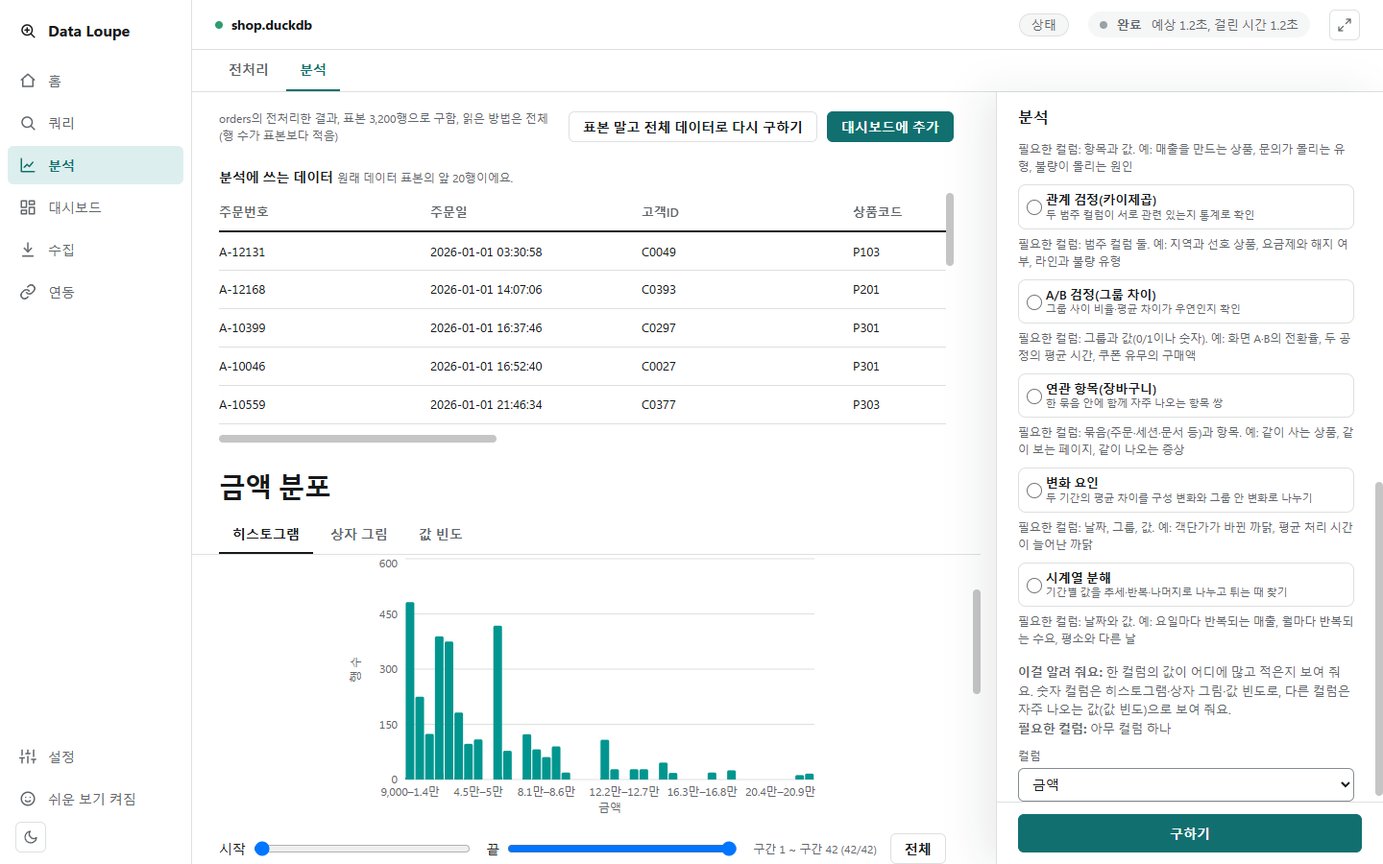
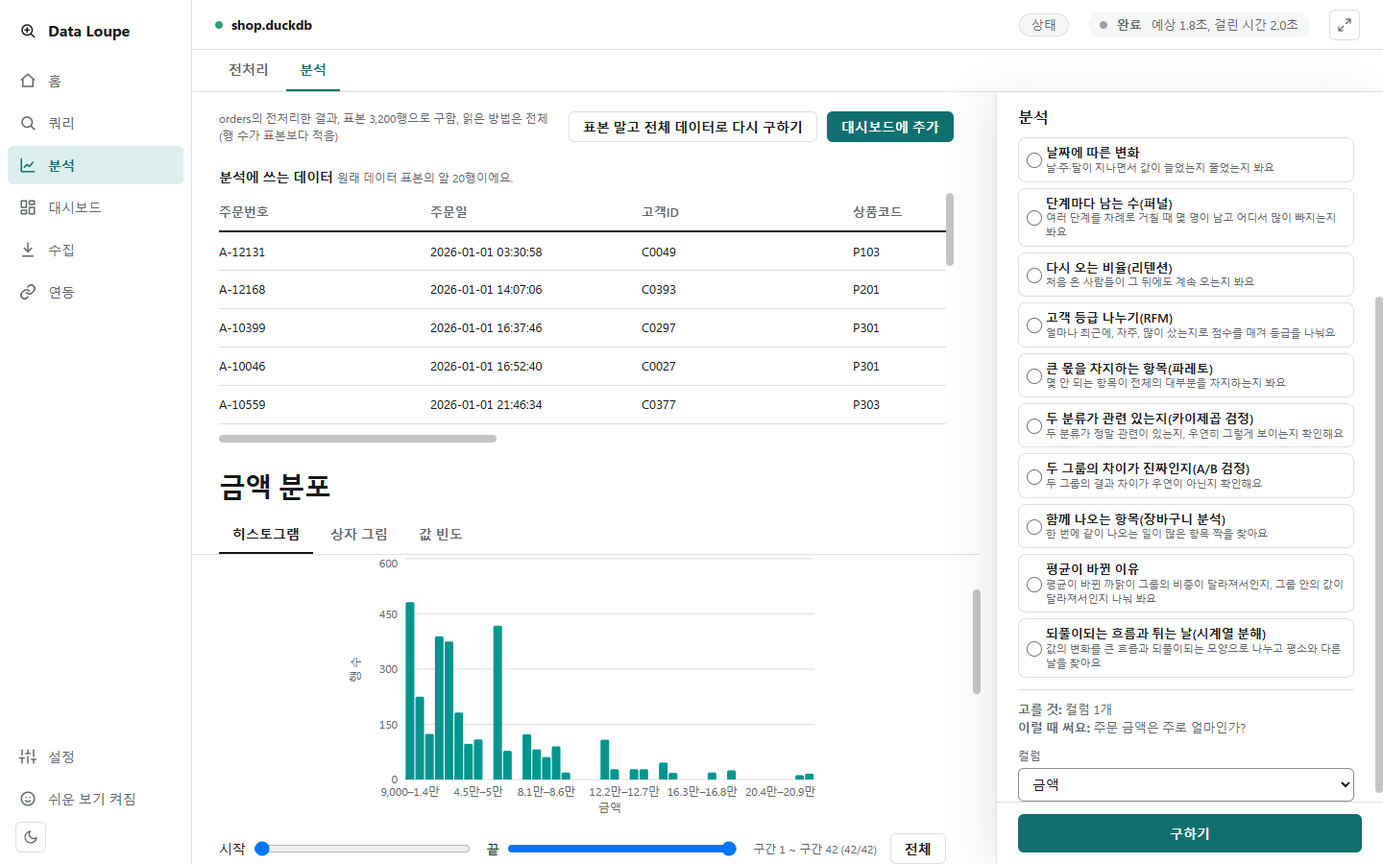
분석 종류 글을 쉬운 말로 다시 쓰고, 카드 추가의 묶음과 종류를 두 구역으로 나눔
- 분석 종류 13개: 쉬운 이름(전문 용어는 괄호), 한 줄 설명만 목록에 두고
  고른 종류의 '고를 것'·'이럴 때 써요'는 아래 구역에 보인다
- 카드 추가: 위는 묶음만, 아래는 고른 묶음의 종류와 설명만
- 설명서·그림·시험을 새 이름에 맞춤

Changed region(s): [[0.7188, 0.1556, 1.0, 0.8711]]

diff --git a/static/prep/prep.html b/static/prep/prep.html
@@ -110,15 +110,15 @@
   .side > footer.has-lead { flex-wrap:wrap; }
   .side > footer.has-lead .lead { flex-basis:100%; margin:0; }
   /* (Phase 19) 분석 종류: 질문형 이름을 2열 목록으로, 원래 이름은 작게 */
-  .akinds { display:grid; grid-template-columns:1fr 1fr; gap:6px; margin-top:10px; }
+  .ahead { margin:12px 0 4px; font-weight:600; }
+  .akinds { display:grid; grid-template-columns:1fr; gap:6px; }  /* 종류만 보이는 구역. 고른 종류의 설명과 칸은 아래 .a-form 구역에 */
   .akinds label { display:flex; gap:6px; align-items:flex-start; border:1px solid var(--line); border-radius:8px; padding:6px 8px; font-size:13px; line-height:1.35; cursor:pointer; }
   .akinds label:has(input:checked) { border-color:var(--accent); background:var(--accent-bg); }
   .akinds input { width:auto; margin:2px 0 0; flex:none; }
   .akinds span { font-weight:600; }
   .akinds small { display:block; color:var(--muted); font-size:11px; font-weight:400; }
-  html.easy .akinds { grid-template-columns:1fr; }  /* (Phase 20) 쉬운 보기: 종류마다 아래에 설명 줄(titleHints)이 붙어 한 줄에 하나씩 */
-  .akinds .easy-only { margin:0 0 4px; }
-  .a-form > .lead { margin-top:4px; }
+  .a-form { border-top:1px solid var(--line); padding-top:10px; }
+  .a-form > .lead { margin-top:0; }
 </style>
 </head>
 <body class="app">
@@ -343,28 +343,29 @@
     <header><h3>분석</h3></header>
     <div class="sc">
       <div class="hint" id="hashed-note-a"></div>
-      <label class="check" title="끄면 전처리 없이 원래 테이블을 분석해요"><input type="checkbox" id="a-prep" checked> 전처리한 결과로 분석</label>
-      <div class="akinds">
-        <label data-hint title="필요한 컬럼: 아무 컬럼 하나. 히스토그램·상자 그림·값 빈도로 봐요. 예: 금액 분포, 응답 시간 분포, 등급별 건수"><input type="radio" name="akind" value="distribution" checked> <span>분포<small>한 컬럼의 값이 어디에 몰려 있고 얼마나 퍼져 있는지</small></span></label>
-        <label data-hint title="필요한 컬럼: 숫자 컬럼 둘 이상. 상관계수 표와 산점도로 봐요. 예: 가격과 판매량, 온도와 불량률"><input type="radio" name="akind" value="correlation"> <span>상관관계<small>두 숫자 컬럼이 함께 오르내리는 정도</small></span></label>
-        <label data-hint title="필요한 컬럼: 묶을 컬럼과 값. 예: 매장별 매출, 팀별 처리 건수, 기기 종류별 평균 온도"><input type="radio" name="akind" value="groups"> <span>그룹 비교<small>묶음마다 합계·평균 같은 값을 나란히 비교</small></span></label>
-        <label data-hint title="필요한 컬럼: 날짜와 값. 예: 주별 매출, 일별 방문 수, 월별 고장 건수"><input type="radio" name="akind" value="trend"> <span>기간별 추이<small>일·주·월마다 값이 어떻게 바뀌는지</small></span></label>
-        <label data-hint title="필요한 컬럼: 대상(사용자·주문·문서 등)과 단계. 예: 방문→결제, 접수→승인→완료, 지원→면접→합격"><input type="radio" name="akind" value="funnel"> <span>퍼널(단계별 통과)<small>순서가 있는 단계를 얼마나 통과하고 어디서 빠지는지</small></span></label>
-        <label data-hint title="필요한 컬럼: 대상과 날짜. 예: 가입 주별 재방문, 첫 구매 월별 재구매, 설치 주별 재사용"><input type="radio" name="akind" value="retention"> <span>리텐션(다시 나타남)<small>처음 나타난 기간별로 묶어 이후에 다시 나타난 비율</small></span></label>
-        <label data-hint title="필요한 컬럼: 대상, 날짜, 크기(금액·횟수 등). 예: 고객 구매 등급, 사용자 활동 등급, 거래처 거래 등급"><input type="radio" name="akind" value="rfm"> <span>RFM(최근·빈도·크기 등급)<small>대상마다 얼마나 최근에·자주·크게 했는지로 등급 나누기</small></span></label>
-        <label data-hint title="필요한 컬럼: 항목과 값. 예: 매출을 만드는 상품, 문의가 몰리는 유형, 불량이 몰리는 원인"><input type="radio" name="akind" value="pareto"> <span>파레토(ABC 등급)<small>값이 큰 항목부터 쌓아 소수 항목이 전체의 몇 %인지</small></span></label>
-        <label data-hint title="필요한 컬럼: 범주 컬럼 둘. 예: 지역과 선호 상품, 요금제와 해지 여부, 라인과 불량 유형"><input type="radio" name="akind" value="chisq"> <span>관계 검정(카이제곱)<small>두 범주 컬럼이 서로 관련 있는지 통계로 확인</small></span></label>
-        <label data-hint title="필요한 컬럼: 그룹과 값(0/1이나 숫자). 예: 화면 A·B의 전환율, 두 공정의 평균 시간, 쿠폰 유무의 구매액"><input type="radio" name="akind" value="abtest"> <span>A/B 검정(그룹 차이)<small>그룹 사이 비율·평균 차이가 우연인지 확인</small></span></label>
-        <label data-hint title="필요한 컬럼: 묶음(주문·세션·문서 등)과 항목. 예: 같이 사는 상품, 같이 보는 페이지, 같이 나오는 증상"><input type="radio" name="akind" value="basket"> <span>연관 항목(장바구니)<small>한 묶음 안에 함께 자주 나오는 항목 쌍</small></span></label>
-        <label data-hint title="필요한 컬럼: 날짜, 그룹, 값. 예: 객단가가 바뀐 까닭, 평균 처리 시간이 늘어난 까닭"><input type="radio" name="akind" value="decompose"> <span>변화 요인<small>두 기간의 평균 차이를 구성 변화와 그룹 안 변화로 나누기</small></span></label>
-        <label data-hint title="필요한 컬럼: 날짜와 값. 예: 요일마다 반복되는 매출, 월마다 반복되는 수요, 평소와 다른 날"><input type="radio" name="akind" value="seasonal"> <span>시계열 분해<small>기간별 값을 추세·반복·나머지로 나누고 튀는 때 찾기</small></span></label>
+      <label class="check" title="끄면 전처리 없이 원래 테이블을 분석해요"><input type="checkbox" id="a-prep" checked> 전처리 탭에서 정리한 데이터로 분석</label>
+      <div class="hint ahead">분석 종류</div>
+      <div class="akinds" role="radiogroup" aria-label="분석 종류">
+        <label><input type="radio" name="akind" value="distribution" checked> <span>값이 퍼진 모양(분포)<small>값이 주로 얼마쯤이고 얼마나 고르게 퍼져 있는지 봐요</small></span></label>
+        <label><input type="radio" name="akind" value="correlation"> <span>같이 움직이는 숫자(상관관계)<small>한 숫자가 커질 때 다른 숫자도 커지는지 봐요</small></span></label>
+        <label><input type="radio" name="akind" value="groups"> <span>묶음끼리 비교<small>매장·팀 같은 묶음마다 합계나 평균을 구해 나란히 봐요</small></span></label>
+        <label><input type="radio" name="akind" value="trend"> <span>날짜에 따른 변화<small>날·주·달이 지나면서 값이 늘었는지 줄었는지 봐요</small></span></label>
+        <label><input type="radio" name="akind" value="funnel"> <span>단계마다 남는 수(퍼널)<small>여러 단계를 차례로 거칠 때 몇 명이 남고 어디서 많이 빠지는지 봐요</small></span></label>
+        <label><input type="radio" name="akind" value="retention"> <span>다시 오는 비율(리텐션)<small>처음 온 사람들이 그 뒤에도 계속 오는지 봐요</small></span></label>
+        <label><input type="radio" name="akind" value="rfm"> <span>고객 등급 나누기(RFM)<small>얼마나 최근에, 자주, 많이 샀는지로 점수를 매겨 등급을 나눠요</small></span></label>
+        <label><input type="radio" name="akind" value="pareto"> <span>큰 몫을 차지하는 항목(파레토)<small>몇 안 되는 항목이 전체의 대부분을 차지하는지 봐요</small></span></label>
+        <label><input type="radio" name="akind" value="chisq"> <span>두 분류가 관련 있는지(카이제곱 검정)<small>두 분류가 정말 관련이 있는지, 우연히 그렇게 보이는지 확인해요</small></span></label>
+        <label><input type="radio" name="akind" value="abtest"> <span>두 그룹의 차이가 진짜인지(A/B 검정)<small>두 그룹의 결과 차이가 우연이 아닌지 확인해요</small></span></label>
+        <label><input type="radio" name="akind" value="basket"> <span>함께 나오는 항목(장바구니 분석)<small>한 번에 같이 나오는 일이 많은 항목 짝을 찾아요</small></span></label>
+        <label><input type="radio" name="akind" value="decompose"> <span>평균이 바뀐 이유<small>평균이 바뀐 까닭이 그룹의 비중이 달라져서인지, 그룹 안의 값이 달라져서인지 나눠 봐요</small></span></label>
+        <label><input type="radio" name="akind" value="seasonal"> <span>되풀이되는 흐름과 튀는 날(시계열 분해)<small>값의 변화를 큰 흐름과 되풀이되는 모양으로 나누고 평소와 다른 날을 찾아요</small></span></label>
       </div>
       <div class="a-form" data-kind="distribution">
-        <p class="lead"><b>이걸 알려 줘요:</b> 한 컬럼의 값이 어디에 많고 적은지 보여 줘요. 숫자 컬럼은 히스토그램·상자 그림·값 빈도로, 다른 컬럼은 자주 나오는 값(값 빈도)으로 보여 줘요.<br><b>필요한 컬럼:</b> 아무 컬럼 하나</p>
+        <p class="lead"><b>고를 것:</b> 컬럼 1개<br><b>이럴 때 써요:</b> 주문 금액은 주로 얼마인가?</p>
         <div class="hint">컬럼</div><select id="a-col"></select>
       </div>
       <div class="a-form hidden" data-kind="correlation">
-        <p class="lead"><b>이걸 알려 줘요:</b> 숫자 컬럼끼리 한쪽이 커질 때 다른 쪽도 커지는지(또는 작아지는지)를 -1~1 사이 숫자(피어슨 상관계수) 표나 점 그림(산점도)으로 보여 줘요.<br><b>필요한 컬럼:</b> 숫자 컬럼 2개 이상</p>
+        <p class="lead"><b>고를 것:</b> 숫자 컬럼 2개 이상<br><b>이럴 때 써요:</b> 가격이 오르면 판매량이 줄어드는가?<br>결과는 -1에서 1 사이 숫자예요. 1에 가까우면 같이 커지고, -1에 가까우면 반대로 움직여요.</p>
         <select id="a-cmode"><option value="heatmap">여러 컬럼 한꺼번에(히트맵)</option><option value="scatter">두 컬럼 자세히(산점도)</option></select>
         <div id="a-heat"><div class="hint">숫자 컬럼(2~<span id="a-max-corr"></span>개)</div><div class="cols" id="a-corr-cols"></div>
           <div class="hint">고른 컬럼이 모두 채워진 행만으로 피어슨 상관계수를 구해요.</div></div>
@@ -372,20 +373,20 @@
           <div class="hint">점이 <span id="a-max-points"></span>개보다 많으면 전체에서 고르게 뽑아 그려요(다시 구해도 같은 점).</div></div>
       </div>
       <div class="a-form hidden" data-kind="groups">
-        <p class="lead"><b>이걸 알려 줘요:</b> 묶음(예: 지역)마다 행 수·합계·평균 같은 값을 구해 나란히 비교해요.<br><b>필요한 컬럼:</b> 묶을 컬럼 하나, 계산할 컬럼 하나</p>
+        <p class="lead"><b>고를 것:</b> 묶을 컬럼 1개, 계산할 컬럼 1개<br><b>이럴 때 써요:</b> 어느 매장의 매출이 가장 큰가?</p>
         <div class="hint">묶을 컬럼</div><select id="a-gby"></select>
         <div class="hint">집계</div><div id="a-gagg"></div>
         <div class="hint">계산할 컬럼</div><select id="a-gval"></select>
       </div>
       <div class="a-form hidden" data-kind="trend">
-        <p class="lead"><b>이걸 알려 줘요:</b> 날짜를 일·주·월로 나눠 기간마다 행 수·합계·평균 같은 값이 어떻게 바뀌었는지 보여 줘요.<br><b>필요한 컬럼:</b> 날짜 컬럼, 계산할 컬럼</p>
+        <p class="lead"><b>고를 것:</b> 날짜 컬럼, 계산할 컬럼<br><b>이럴 때 써요:</b> 매출이 달마다 늘고 있는가?</p>
         <div class="hint">날짜 컬럼</div><select id="a-tcol"></select>
         <div class="hint">기간 단위</div><select id="a-tunit"><option value="day">일</option><option value="week">주(월요일부터)</option><option value="month">월</option></select>
         <div class="hint">집계</div><div id="a-tagg"></div>
         <div class="hint">계산할 컬럼</div><select id="a-tval"></select>
       </div>
       <div class="a-form hidden" id="akind-funnel" data-kind="funnel" data-adv>
-        <p class="lead"><b>이걸 알려 줘요:</b> 사람들이 정한 단계를 순서대로 몇 명이나 거쳤고, 어느 단계에서 빠지는지 보여 줘요.<br><b>필요한 컬럼:</b> 사람을 구분하는 컬럼(예: 회원번호), 행동한 시각 컬럼, 행동 이름 컬럼(또는 단계마다 조건)</p>
+        <p class="lead"><b>고를 것:</b> 사람을 구분하는 컬럼(예: 회원번호), 행동한 시각 컬럼, 행동 이름 컬럼(또는 단계마다 조건)<br><b>이럴 때 써요:</b> 방문한 사람 중 몇 명이 결제까지 가는가?</p>
         <div class="hint">사용자를 구분하는 컬럼</div><select id="a-fuser"></select>
         <div class="hint">행동한 시각 컬럼</div><select id="a-ftime"></select>
         <div class="hint">단계 정의</div><select id="a-fdefine" title="행동 값 목록은 행동 컬럼의 값을 순서대로, 조건 줄은 단계마다 조건을 적어요"><option value="values">행동 값 목록</option><option value="stages">단계마다 조건 줄</option></select>
@@ -408,14 +409,14 @@
         <div class="adv"><div class="hint">걸린 시간 절사평균에서 자를 몫(%)</div><input id="a-ftrim" type="number" min="0" step="any" aria-label="절사평균 자르기 %" title="위아래를 합쳐 자를 몫이에요. 비우면 기본값"></div>
       </div>
       <div class="a-form hidden" id="akind-retention" data-kind="retention" data-adv>
-        <p class="lead"><b>이걸 알려 줘요:</b> 처음 나타난 기간(일·주·월)으로 사람을 묶어, 그 뒤 기간마다 다시 나타난 사람의 비율을 보여 줘요. 테이블 전체로 구해요.<br><b>필요한 컬럼:</b> 사람을 구분하는 컬럼, 날짜 컬럼</p>
+        <p class="lead"><b>고를 것:</b> 사람을 구분하는 컬럼, 날짜 컬럼<br><b>이럴 때 써요:</b> 이번 달에 가입한 사람이 다음 달에도 오는가?<br>표본이 아니라 테이블 전체로 구해요.</p>
         <div class="hint">사용자를 구분하는 컬럼</div><select id="a-rwho"></select>
         <div class="hint">시각 컬럼(날짜)</div><select id="a-rtime"></select>
         <div class="hint">코호트 단위</div><select id="a-runit"><option value="day">일</option><option value="week">주(설정한 주 시작 요일부터)</option><option value="month">월</option></select>
         <div class="adv"><div class="hint">경과 칸 수(비우면 기본값)</div><input id="a-rspan" type="number" step="1"></div>
       </div>
       <div class="a-form hidden" id="akind-rfm" data-kind="rfm" data-adv>
-        <p class="lead"><b>이걸 알려 줘요:</b> 최근에(R)·자주(F)·많이(M) 산 정도를 5단계로 나눠 점수를 매기고, 고객을 등급(세그먼트)으로 묶어요. 테이블 전체로 구해요.<br><b>필요한 컬럼:</b> 고객을 구분하는 컬럼, 날짜 컬럼, 금액 컬럼</p>
+        <p class="lead"><b>고를 것:</b> 고객을 구분하는 컬럼, 날짜 컬럼, 금액 컬럼<br><b>이럴 때 써요:</b> 단골은 누구이고 떠나려는 고객은 누구인가?<br>표본이 아니라 테이블 전체로 구해요.</p>
         <div class="hint">사용자를 구분하는 컬럼</div><select id="a-mwho"></select>
         <div class="hint">시각 컬럼(날짜)</div><select id="a-mtime"></select>
         <div class="hint">금액 컬럼</div><select id="a-mamt"></select>
@@ -423,7 +424,7 @@
         <div class="adv"><div class="hint">거래 키(빈도를 고유 거래 수로 셀 때)</div><select id="a-mtx"></select></div>
       </div>
       <div class="a-form hidden" id="akind-pareto" data-kind="pareto" data-adv>
-        <p class="lead"><b>이걸 알려 줘요:</b> 값이 큰 항목부터 쌓아 적은 수의 항목이 전체의 몇 %를 차지하는지 보여 주고, 누적 비중으로 A·B·C 등급을 나눠요. 테이블 전체로 구해요.<br><b>필요한 컬럼:</b> 항목 컬럼(예: 상품), 값 컬럼(값을 행 수로 고르면 없어도 돼요)</p>
+        <p class="lead"><b>고를 것:</b> 항목 컬럼(예: 상품), 값 컬럼(값을 행 수로 고르면 없어도 돼요)<br><b>이럴 때 써요:</b> 매출의 80%를 만드는 상품은 몇 개인가?<br>표본이 아니라 테이블 전체로 구해요.</p>
         <div class="hint">항목 컬럼</div><select id="a-pitem"></select>
         <div class="hint">값</div><select id="a-pagg"><option value="sum">합계</option><option value="count">행 수</option></select>
         <div id="a-pvalbox"><div class="hint">값 컬럼</div><select id="a-pval"></select></div>
@@ -431,12 +432,12 @@
         <div class="adv"><div class="hint">B 경계(%, 비우면 기본값)</div><input id="a-pb" type="number" step="any"></div>
       </div>
       <div class="a-form hidden" data-kind="chisq">
-        <p class="lead"><b>이걸 알려 줘요:</b> 두 범주 컬럼(예: 지역과 등급)이 서로 관계가 있는지 교차표와 카이제곱 검정으로 확인해요.<br><b>필요한 컬럼:</b> 범주 컬럼 2개</p>
+        <p class="lead"><b>고를 것:</b> 종류로 나뉘는 컬럼 2개(예: 지역과 등급)<br><b>이럴 때 써요:</b> 지역에 따라 잘 팔리는 상품이 다른가?</p>
         <div class="hint">행 컬럼</div><select id="a-xrow"></select>
         <div class="hint">열 컬럼</div><select id="a-xcol"></select>
       </div>
       <div class="a-form hidden" id="akind-abtest" data-kind="abtest" data-adv>
-        <p class="lead"><b>이걸 알려 줘요:</b> 그룹(A·B …)끼리 비율이나 평균의 차이가 우연으로 생길 만한 정도인지 검정하고, 차이의 범위(신뢰구간)를 보여 줘요.<br><b>필요한 컬럼:</b> 그룹 컬럼, 값 컬럼(비율이면 0·1이나 예/아니오 값, 평균이면 숫자)</p>
+        <p class="lead"><b>고를 것:</b> 그룹 컬럼, 값 컬럼(비율이면 0·1이나 예/아니오 값, 평균이면 숫자)<br><b>이럴 때 써요:</b> 새 화면을 본 사람이 더 많이 샀는가?</p>
         <div class="hint">그룹 컬럼</div><select id="a-bgroup"></select>
         <div class="hint">지표</div><select id="a-bmetric"><option value="rate">비율</option><option value="mean">평균</option></select>
         <div class="hint">값 컬럼</div><select id="a-bval"></select>
@@ -446,14 +447,14 @@
         <div class="adv"><div class="hint">신뢰 수준(%, 비우면 설정값)</div><input id="a-bconf" type="number" step="any"></div>
       </div>
       <div class="a-form hidden" id="akind-basket" data-kind="basket" data-adv>
-        <p class="lead"><b>이걸 알려 줘요:</b> 같은 거래에 함께 들어간 항목 쌍을 찾아, 우연보다 얼마나 자주 같이 들어가는지(향상도) 순으로 보여 줘요. 테이블 전체로 구해요.<br><b>필요한 컬럼:</b> 거래 키(예: 주문번호), 항목 컬럼(예: 상품)</p>
+        <p class="lead"><b>고를 것:</b> 묶음을 구분하는 컬럼(예: 주문번호), 항목 컬럼(예: 상품)<br><b>이럴 때 써요:</b> 빵을 산 사람은 우유도 같이 사는가?<br>표본이 아니라 테이블 전체로 구해요.</p>
         <div class="hint">거래 키</div><select id="a-kkey"></select>
         <div class="hint">항목 컬럼</div><select id="a-kitem"></select>
         <div class="adv"><div class="hint">최소 지지도(%, 비우면 기본값)</div><input id="a-ksup" type="number" step="any"></div>
         <div class="adv"><div class="hint">상위 쌍 수(비우면 기본값)</div><input id="a-ktop" type="number" step="1"></div>
       </div>
       <div class="a-form hidden" data-kind="decompose">
-        <p class="lead"><b>이걸 알려 줘요:</b> 두 기간의 평균(0·1 값이면 비율)이 달라진 까닭을 그룹 구성이 바뀐 몫과 그룹 안 값이 바뀐 몫으로 나눠 보여 줘요. 테이블 전체로 구해요.<br><b>필요한 컬럼:</b> 날짜 컬럼, 그룹 컬럼, 숫자 값 컬럼</p>
+        <p class="lead"><b>고를 것:</b> 날짜 컬럼, 그룹 컬럼, 숫자 값 컬럼, 견줄 두 기간<br><b>이럴 때 써요:</b> 객단가가 내린 것은 싼 상품이 많이 팔려서인가?<br>표본이 아니라 테이블 전체로 구해요.</p>
         <div class="hint">날짜 컬럼</div><select id="a-dtime"></select>
         <div class="hint">기준 기간</div><div class="row"><input id="a-db0" type="date"><input id="a-db1" type="date"></div>
         <div class="hint">비교 기간</div><div class="row"><input id="a-dc0" type="date"><input id="a-dc1" type="date"></div>
@@ -461,7 +462,7 @@
         <div class="hint">값 컬럼(0·1 값이면 비율)</div><select id="a-dval"></select>
       </div>
       <div class="a-form hidden" id="akind-seasonal" data-kind="seasonal" data-adv>
-        <p class="lead"><b>이걸 알려 줘요:</b> 기간별 값을 추세·계절 반복·나머지로 나누고, 나머지가 유난히 큰 기간을 표시해요. 테이블 전체로 구해요.<br><b>필요한 컬럼:</b> 날짜 컬럼, 계산할 컬럼</p>
+        <p class="lead"><b>고를 것:</b> 날짜 컬럼, 계산할 컬럼<br><b>이럴 때 써요:</b> 주말마다 매출이 오르는가? 평소와 달랐던 날은 언제인가?<br>표본이 아니라 테이블 전체로 구해요.</p>
         <div class="hint">날짜 컬럼</div><select id="a-stime"></select>
         <div class="hint">기간 단위</div><select id="a-sunit"><option value="day">일</option><option value="week">주(월요일부터)</option><option value="month">월</option></select>
         <div class="hint">집계</div><div id="a-sagg"></div>

diff --git a/web/components/edit/AddCardMenu.tsx b/web/components/edit/AddCardMenu.tsx
@@ -22,6 +22,7 @@ const NUM = ["정수", "실수"], DATE = ["날짜", "날짜시간"];
 const BUCKET_TIMED = "hour", FUNNEL_TIMED = "minute";  // 날짜시간 컬럼일 때 편차 표 시간대 묶음·퍼널/생키 기간 제한의 기본 단위(날짜만 있는 컬럼은 일)
 const REVISIT_CUSTOM = "custom", REVISIT_CUSTOM_START = "0";  // 재방문 목록의 "직접 입력" 값과, 고르면 입력 칸에 먼저 들어가는 값(0은 stagesOf가 거부해 직접 적게 한다)
 /** P14 새 종류의 body.x 칸 이름(boxplot은 비우면 전체 한 상자) */
+const KIND_GROUPS = kindGroups();  // 위 구역은 묶음만, 아래 구역은 고른 묶음의 종류만 보인다
 const X_LABEL: Partial<Record<CardKind, string>> = { boxplot: "그룹 컬럼", heatmap: "행 컬럼", treemap: "윗단계 컬럼", sunburst: "윗단계 컬럼", wordcloud: "글자 컬럼", bump: "대상 컬럼" };
 
 /** 닫혀 있으면 아무것도 그리지 않는다. 열 때마다 새로 마운트되어 처음 모양으로 시작한다 */
@@ -43,6 +44,7 @@ function Menu({ onClose, onAdd, fill, consts }: AddCardMenuProps & { consts: Con
     const kind: CardKind = fill ? (fill.kind === "analysis" || fill.kind === "metric" ? "kpi" : fill.kind) : "kpi";
     return { ...emptyForm(kind, fill?.view?.type ?? ""), ...(fill ? formFromCard(fill) : {}), table: fill?.source?.table ?? "", rows: fit([], kind) };  // 다시 정할 때는 카드의 모양 설정을 지킨다
   });
+  const [group, setGroup] = useState(() => KIND_GROUPS.find(g => g[1].includes(f.kind))![0]);  // 펼쳐 볼 묶음(처음에는 고른 종류가 든 묶음)
   const [names, setNames] = useState<string[]>([]);       // 연결의 테이블 목록
   const [colsFor, setColsFor] = useState<{ table: string; cols: [string, string][] }>({ table: "", cols: [] });  // 고른 테이블의 [컬럼, 한글 타입]
   const [gColsFor, setGColsFor] = useState<{ table: string; cols: [string, string][] }>({ table: "", cols: [] });  // 영역 테이블의 컬럼(이름·도형 후보)
@@ -157,15 +159,18 @@ function Menu({ onClose, onAdd, fill, consts }: AddCardMenuProps & { consts: Con
       <div className="d-add-body">
       <Sel label="테이블" title="카드가 읽을 테이블. 먼저 데이터에 연결해야 해요" value={f.table} onChange={v => set("table", v)} options={names} blank="(테이블을 고르세요)" need />
       {hidden.length > 0 && <div className="hint">ID·해시로 보이는 컬럼 {hidden.join(", ")}을(를) 목록에서 뺐어요 <button type="button" className="linkish" onClick={() => setRs(p => ({ table: f.table, list: [...(p.table === f.table ? p.list : []), ...hidden] }))}>다시 넣기</button></div>}
-      <div className="hint cm-kinds" role="group" aria-label="카드 종류">카드 종류
-        {kindGroups().map(([group, kinds]) => (
-          <div key={group} className="cm-kind-group"><span className="cm-kind-name">{group}</span>
-            {kinds.map(k => (
-              <button key={k} type="button" className={"btype" + (f.kind === k ? " on" : "")} aria-pressed={f.kind === k} title={CARD_KINDS[k]![3]}
-                onClick={() => { setErr(""); setF(p => ({ ...p, kind: k, rows: fit(p.rows, k) })); }}>{CARD_KINDS[k]![0]}</button>
-            ))}
-          </div>
-        ))}
+      <div className="hint cm-kinds">카드 종류
+        <div className="cm-groups" role="group" aria-label="카드 종류 묶음">
+          {KIND_GROUPS.map(([g, kinds]) => (
+            <button key={g} type="button" className={"btype" + (g === group ? " on" : "") + (kinds.includes(f.kind) ? " cur" : "")} aria-pressed={g === group} onClick={() => setGroup(g)}>{g}</button>
+          ))}
+        </div>
+        <div className="cm-kind-list" role="group" aria-label={`${group} 묶음의 카드 종류`}>
+          {KIND_GROUPS.find(([g]) => g === group)![1].map(k => (
+            <button key={k} type="button" className={"cm-kind" + (f.kind === k ? " on" : "")} aria-pressed={f.kind === k}
+              onClick={() => { setErr(""); setF(p => ({ ...p, kind: k, rows: fit(p.rows, k) })); }}><b>{CARD_KINDS[k]![0]}</b><span>{CARD_KINDS[k]![3]}</span></button>
+          ))}
+        </div>
       </div>
       {high > 0 && (
         <div className="cm-rows" role="group" aria-label="값">

diff --git a/static/prep/analysis.js b/static/prep/analysis.js
@@ -1,8 +1,8 @@
 // ---------- 분석 ----------
 // A.cols: 분석할 표의 [컬럼, 종류(num·date·text)]. A.result: 마지막 /api/analyze 결과(how·조건 글 포함). A.view: 보고 있는 그래프.
 const A = { cols: [], hashed: null, result: null, view: null, lo: 0, hi: 0 };
-const VIEW_NAMES = { hist: "히스토그램", box: "상자 그림", values: "값 빈도", heat: "히트맵", scatter: "산점도", groups: "그룹 비교", trend: "추이", funnel: "퍼널",
-  cohort: "코호트 표", curve: "평균 유지율", rfm: "RFM 세그먼트", pareto: "파레토", chi: "관계 검정", ab: "A/B 검정", basket: "연관 쌍", waterfall: "변화 요인", season: "시계열 분해" };
+const VIEW_NAMES = { hist: "히스토그램", box: "상자 그림", values: "값 빈도", heat: "히트맵", scatter: "산점도", groups: "묶음끼리 비교", trend: "날짜에 따른 변화", funnel: "퍼널",
+  cohort: "코호트 표", curve: "평균 유지율", rfm: "RFM 세그먼트", pareto: "파레토", chi: "카이제곱 검정", ab: "A/B 검정", basket: "함께 나오는 짝", waterfall: "평균이 바뀐 이유", season: "시계열 분해" };
 const VIEW_RATIOS = { box: 2.4, heat: 1, scatter: 4 / 3, cohort: 1, chi: 1 };  // 나머지는 16:9
 const ADD_TITLE = $("a-add").title;
 const anaDraw = island($("a-chart"), m => say("err-ana", m));
@@ -222,8 +222,8 @@ const pText = p => p == null ? "-" : Number(p).toPrecision(SIG);
 const AB_TESTS = { z: "두 비율 z 검정", welch: "Welch t 검정", anova: "분산분석(ANOVA)", chi2: "카이제곱 동질성 검정" };
 const NEW_TITLES = {
   cohort: d => `${d.who} ${UNIT_NAMES[d.unit]}별 코호트 리텐션`, curve: d => `${d.who} 평균 유지율`, rfm: d => `${d.who} RFM 세그먼트`,
-  pareto: d => `${d.item} 파레토(${d.agg === "count" ? "행 수" : `합계 ${d.value}`})`, chi: d => `${d.row} × ${d.col} 관계 검정`,
-  ab: d => `${d.group}별 ${d.value} A/B 검정`, basket: d => `${d.item} 연관 쌍`, waterfall: d => `${d.group}별 ${d.value} 변화 요인`, season: d => `${d.time} ${UNIT_NAMES[d.unit]}별 시계열 분해` };
+  pareto: d => `${d.item} 파레토(${d.agg === "count" ? "행 수" : `합계 ${d.value}`})`, chi: d => `${d.row} × ${d.col} 카이제곱 검정`,
+  ab: d => `${d.group}별 ${d.value} A/B 검정`, basket: d => `${d.item} 함께 나오는 짝`, waterfall: d => `${d.group}별 ${d.value} 평균이 바뀐 이유`, season: d => `${d.time} ${UNIT_NAMES[d.unit]}별 시계열 분해` };
 const NEW_NOTES = {
   rfm: d => [`기준일 ${d.asof}`, `사용자 ${d.users.toLocaleString()}명`],
   pareto: d => [d.dropped ? `0 이하·빈 값 항목 ${d.dropped.toLocaleString()}개 뺌` : "", d.more ? `표와 그림에는 앞 ${SERVER.analysis.pareto_show}개만 보임` : ""],

diff --git a/static/core/dash_edit.css b/static/core/dash_edit.css
@@ -10,8 +10,13 @@
 #d-add .d-add-body { flex:1; min-height:0; overflow:auto; display:flex; flex-direction:column; gap:var(--sp-2); }
 #d-add .d-add-foot { flex:none; margin:0; padding-top:var(--sp-2); border-top:1px solid var(--line); }
 .cardmenu .cm-kinds { display:flex; flex-direction:column; gap:var(--sp-1); margin:0; }
-.cardmenu .cm-kind-group { display:flex; flex-wrap:wrap; gap:var(--sp-1); align-items:center; }
-.cardmenu .cm-kind-name { flex:0 0 72px; color:var(--muted); }
+.cardmenu .cm-groups { display:flex; flex-wrap:wrap; gap:var(--sp-1); padding-bottom:6px; border-bottom:1px solid var(--line); }
+.cardmenu .cm-groups .cur { color:var(--text); font-weight:600; }  /* 지금 고른 종류가 든 묶음 */
+.cardmenu .cm-kind-list { display:flex; flex-direction:column; gap:var(--sp-1); }
+.cardmenu .cm-kind { display:flex; gap:8px; align-items:baseline; text-align:left; background:none; border:1px solid var(--line); border-radius:var(--r-ctl); padding:5px 9px; min-height:24px; color:var(--text); transition:border-color .15s, background-color .15s; }
+.cardmenu .cm-kind b { flex:none; font-size:var(--fs-sm); }
+.cardmenu .cm-kind span { color:var(--muted); font-size:var(--fs-xs); }
+.cardmenu .cm-kind.on { border-color:var(--accent); background:var(--accent-bg); }
 .cardmenu .cm-more > summary { cursor:pointer; color:var(--muted); font-weight:600; min-height:24px; }
 .cardmenu .cm-more[open] { display:flex; flex-direction:column; gap:var(--sp-2); }
 .d-main > aside h5 { margin:12px 0 6px; font-size:var(--fs-sm); }

diff --git a/web/components/cards/chart/series.ts b/web/components/cards/chart/series.ts
@@ -55,7 +55,7 @@ export function seriesKit(server: Server) {
   function typeReason(card: SCard, type: Exclude<ChartType, "">) {
     const s = cardSeries(card), names = server.dash.types;
     if (!s) return "아직 값이 없어서 종류를 바꿀 수 없어요. 연결한 뒤 [다시 구하기]를 누르세요.";
-    if (!s.chartable) return "이 분석 그림은 종류를 바꿀 수 없어요. 그룹 비교와 시계열 추이만 바꿀 수 있어요.";
+    if (!s.chartable) return "이 분석 그림은 종류를 바꿀 수 없어요. 묶음끼리 비교와 날짜에 따른 변화만 바꿀 수 있어요.";
     if (type === "scatter" || type === "bubble") {  // X와 값이 숫자 컬럼일 때만(버블은 [크기]도)
       const d = card.data ?? {}, body = card.source?.body ?? {}, y = body.series?.[0]?.y ?? body.y;
       if (d.x_kind !== "num" || !(d.num_cols ?? []).includes(y as string)) return "산점도·버블은 X가 숫자 컬럼이고 값이 숫자 컬럼일 때만 쓸 수 있어요.";

diff --git a/tests_pytest/test_phase20_formula_ui.py b/tests_pytest/test_phase20_formula_ui.py
@@ -17,10 +17,9 @@ FEATURES = ("pca", "kmeans", "geo")
 OLD_QUESTIONS = ("값이 어떻게 퍼져 있나요?", "두 숫자가 같이 움직이나요?", "묶음마다 값이 얼마나 다른가요?", "기간마다 어떻게 바뀌었나요?", "단계마다 얼마나 남나요?",
                  "다시 오는 고객은 얼마나?", "좋은 고객은 누구?", "적은 항목이 대부분을 차지하나요?", "두 항목이 서로 관련 있나요?", "A와 B의 차이가 우연인가요?",
                  "같이 사는 상품은?", "평균이 왜 바뀌었나요?", "반복되는 흐름과 튀는 때는?")
-KIND_NAMES = {"distribution": "분포", "correlation": "상관관계", "groups": "그룹 비교", "trend": "기간별 추이", "funnel": "퍼널(단계별 통과)",
-              "retention": "리텐션(다시 나타남)", "rfm": "RFM(최근·빈도·크기 등급)", "pareto": "파레토(ABC 등급)", "chisq": "관계 검정(카이제곱)",
-              "abtest": "A/B 검정(그룹 차이)", "basket": "연관 항목(장바구니)", "decompose": "변화 요인", "seasonal": "시계열 분해"}
-KIND_NEED = "필요한 컬럼: "
+KIND_NAMES = {"distribution": "값이 퍼진 모양(분포)", "correlation": "같이 움직이는 숫자(상관관계)", "groups": "묶음끼리 비교", "trend": "날짜에 따른 변화", "funnel": "단계마다 남는 수(퍼널)",
+              "retention": "다시 오는 비율(리텐션)", "rfm": "고객 등급 나누기(RFM)", "pareto": "큰 몫을 차지하는 항목(파레토)", "chisq": "두 분류가 관련 있는지(카이제곱 검정)",
+              "abtest": "두 그룹의 차이가 진짜인지(A/B 검정)", "basket": "함께 나오는 항목(장바구니 분석)", "decompose": "평균이 바뀐 이유", "seasonal": "되풀이되는 흐름과 튀는 날(시계열 분해)"}
 FAKE_SERVER = {"pca_max": 7, "kmeans": {"max_cols": 8, "max_k": 9, "k": 4, "iters": 13, "tol": 0.5, "init_rows": 1234}}  # 서버 기본값과 다른 숫자: 화면이 숫자를 따로 적지 않았는지 본다
 
 # 계산 컬럼 칸의 대역: id마다 가짜 요소 하나, 컬럼 다섯 개(대소문자·한글), [추가]가 부르는 것들
@@ -192,10 +191,9 @@ def test_unnest_is_the_last_screen_op() -> None:
 
 def test_analysis_cards_have_name_line_and_needed_columns() -> None:
     page = read(PAGE)
-    cards = re.findall(r'<label data-hint title="([^"]+)"><input type="radio" name="akind" value="(\w+)"(?: checked)?> <span>([^<]+)<small>([^<]+)</small></span></label>', page)
-    assert {value: name for _, value, name, _ in cards} == KIND_NAMES and [value for _, value, _, _ in cards] == list(KIND_NAMES)
-    for title, value, _, line in cards:
-        assert title.startswith(KIND_NEED) and "예: " in title, value
+    cards = re.findall(r'<label><input type="radio" name="akind" value="(\w+)"(?: checked)?> <span>([^<]+)<small>([^<]+)</small></span></label>', page)
+    assert {value: name for value, name, _ in cards} == KIND_NAMES and [value for value, _, _ in cards] == list(KIND_NAMES)
+    for value, _, line in cards:
         assert line.strip() and "?" not in line, value
     for text in (page, read(ANALYSIS)):
         assert not [q for q in OLD_QUESTIONS if q in text]

diff --git a/tests_pytest/test_ux16.py b/tests_pytest/test_ux16.py
@@ -372,8 +372,10 @@ def test_changed_files_have_no_control_chars():
 
 def test_add_card_drawer_markup():
     src = web("components/edit/AddCardMenu.tsx")
-    assert '<Sel label="카드 종류"' not in src and "kindGroups().map(([group, kinds]) =>" in src
-    assert 'className={"btype" + (f.kind === k ? " on" : "")}' in src and "aria-pressed={f.kind === k}" in src
+    assert '<Sel label="카드 종류"' not in src and "KIND_GROUPS.map(([g, kinds]) =>" in src
+    assert 'className="cm-groups"' in src and 'className="cm-kind-list"' in src and "cm-kind-name" not in src  # 묶음 구역과 종류 구역이 따로
+    assert "KIND_GROUPS.find(([g]) => g === group)![1].map(k =>" in src  # 종류 구역에는 고른 묶음의 종류만
+    assert 'className={"cm-kind" + (f.kind === k ? " on" : "")}' in src and "aria-pressed={f.kind === k}" in src
     assert 'onClick={() => { setErr(""); setF(p => ({ ...p, kind: k, rows: fit(p.rows, k) })); }}' in src
     assert 'id={fill ? undefined : "d-add"}' in src and 'className={fill ? "pop cardmenu" : "d-add cardmenu"}' in src
     assert '{!fill && <div className="phead"><b>카드 추가</b>' in src
@@ -418,4 +420,4 @@ def test_drawer_css():
         assert part in d, part
     assert "flex:1; min-height:0; overflow:auto;" in rule(css, "#d-add .d-add-body")
     assert "flex:none;" in rule(css, "#d-add .d-add-foot")
-    assert ".cardmenu .cm-kind-group" in css and ".cardmenu .cm-more" in css
+    assert ".cardmenu .cm-groups" in css and ".cardmenu .cm-kind-list" in css and ".cardmenu .cm-more" in css

diff --git a/tests_pytest/test_ux19_prep.py b/tests_pytest/test_ux19_prep.py
@@ -68,12 +68,12 @@ def test_19e_peak_finder_folded():
 
 def test_19f1_question_names_and_two_lines():
     page = html()
-    labels = re.findall(r'<label data-hint title="[^"]+"><input type="radio" name="akind" value="(\w+)"(?: checked)?> <span>([^<]+)<small>([^<]+)</small></span></label>', page)
+    labels = re.findall(r'<label><input type="radio" name="akind" value="(\w+)"(?: checked)?> <span>([^<]+)<small>([^<]+)</small></span></label>', page)
     assert [k for k, _, _ in labels] == KINDS
-    assert dict((k, n) for k, n, _ in labels)["pareto"] == "파레토(ABC 등급)" and dict((k, d) for k, _, d in labels)["basket"] == "한 묶음 안에 함께 자주 나오는 항목 쌍"
+    assert dict((k, n) for k, n, _ in labels)["pareto"] == "큰 몫을 차지하는 항목(파레토)" and dict((k, d) for k, _, d in labels)["basket"] == "한 번에 같이 나오는 일이 많은 항목 짝을 찾아요"
     assert 'class="akinds"' in page and "seg4" not in page
     for k in KINDS:
-        assert re.search(r'<p class="lead"><b>이걸 알려 줘요:</b> [^<]+<br><b>필요한 컬럼:</b> [^<]+</p>', form(k)), k
+        assert re.search(r'<p class="lead"><b>고를 것:</b> [^<]+<br><b>이럴 때 써요:</b> [^<]+\?(<br>[^<]+)?</p>', form(k)), k
 
 
 def test_19f_optional_fields_folded():

diff --git a/tests_pytest/test_phase20_screens.py b/tests_pytest/test_phase20_screens.py
@@ -72,12 +72,12 @@ def test_title_hints_marked_on_steps_and_kinds():
     assert "html:not(.easy) .easy-only { display:none; }" in read("common.css")
     assert re.search(r"^advMore\(\);\ntitleHints\(\);$", read("common.js"), re.M)  # 화면이 뜰 때 한 번
     prep = read("prep.html")
-    assert len(re.findall(r'<label data-hint title="[^"]+"><input type="radio" name="akind"', prep)) == ANA_KINDS == prep.count('name="akind"')
-    for page in STEP_PAGES:  # 단계 머리마다. 분석 종류와 단계 머리 말고는 붙이지 않는다
+    assert len(re.findall(r'<label><input type="radio" name="akind"', prep)) == ANA_KINDS == prep.count('name="akind"')  # 분석 종류 사이에는 설명 줄을 끼우지 않는다(고른 종류의 설명은 아래 구역에)
+    for page in STEP_PAGES:  # 단계 머리마다. 단계 머리 말고는 붙이지 않는다
         html = read(page)
         steps = len(re.findall(r'<div class="step[ "]', html))
         assert steps and len(re.findall(r'<div class="sp" data-hint[ >]', html)) == steps, page
-        assert html.count(" data-hint") == steps + (ANA_KINDS if page == "prep.html" else 0), page
+        assert html.count(" data-hint") == steps, page
 
 
 # ---------- 20D bcheck ----------

diff --git a/tests_pytest/test_ux14.py b/tests_pytest/test_ux14.py
@@ -51,6 +51,6 @@ def test_export_buttons_in_one_menu():
 
 def test_small_touches():
     assert all(f'value="{k}"' in read("prep.html") for k in ("distribution", "seasonal"))
-    assert len(re.findall(r'<label data-hint title="[^"]+"><input type="radio" name="akind"', read("prep.html"))) == len(re.findall(r'name="akind"', read("prep.html")))
+    assert len(re.findall(r'<label><input type="radio" name="akind"', read("prep.html"))) == len(re.findall(r'name="akind"', read("prep.html")))
     assert 'value="."' not in read("connect.html")
     assert "데이터 연결 필요" not in read("home.html")  # Phase 16: 기능 카드("데이터 연결부터")는 없어지고 연결 칸이 펼쳐져 있다

diff --git a/docs/analysis.md b/docs/analysis.md
@@ -20,7 +20,7 @@
 | 기능 | 한 줄 설명 | 자세히 |
 |---|---|---|
 | 전처리 | 행 거르기·컬럼 정리(목록을 행으로 펼치기 포함)·새 컬럼(계산 컬럼, PCA·K-Means·좌표)·중복 제거·정렬을 고르고, 컬럼 요약에서 품질 진단도 보고, 미리 본 뒤 파일이나 새 테이블로 저장 | [functions/prep.md](functions/prep.md) |
-| 분석 탭 | 분석 종류 카드 13개(분포·상관관계·그룹 비교·기간별 추이·퍼널·리텐션·RFM·파레토·관계 검정·A/B 검정·연관 항목·변화 요인·시계열 분해)를 그래프와 표로 보고 대시보드에 넣기 | [functions/analysis_tab.md](functions/analysis_tab.md) |
+| 분석 탭 | 분석 종류 카드 13개(분포·상관관계·묶음끼리 비교·날짜에 따른 변화·퍼널·리텐션·RFM·파레토·카이제곱 검정·A/B 검정·장바구니 분석·평균이 바뀐 이유·시계열 분해)를 그래프와 표로 보고 대시보드에 넣기 | [functions/analysis_tab.md](functions/analysis_tab.md) |
 | 퍼널 | 정해 둔 단계를 순서대로 거쳐 간 사람 수와 빠진 곳을 생키 그림과 표로 | [functions/funnel.md](functions/funnel.md) |
 | 기억되는 것·안전 | 미리 읽을 행 수, 지난번 전처리, 저장한 설정이 어디에 남는지 | [functions/settings.md](functions/settings.md) |
 
@@ -50,20 +50,20 @@
 
 ## 분석 탭의 새 분석 8가지
 
-분석 종류 카드 13개 가운데 뒤쪽 8개(리텐션(다시 나타남)·RFM(최근·빈도·크기 등급)·파레토(ABC 등급)·관계 검정(카이제곱)·A/B 검정(그룹 차이)·연관 항목(장바구니)·변화 요인·시계열 분해)입니다. 카드 13개의 이름과 한 줄 설명은 [분석 탭](functions/analysis_tab.md#분석-종류-카드-13개)에 있습니다. 결과는 그래프와 표로 나오고, 빈 값 때문에 뺀 행 수와 주의할 점(배정 비율이 1:1로 보기 어려울 때, 값이 1개뿐인 그룹을 뺐을 때, RFM 점수를 5단계로 나눌 수 없을 때 등)은 결과 위 안내에 보입니다. 이 8가지는 아직 **[대시보드에 추가]**를 쓸 수 없습니다(단추가 꺼짐). 표에 "(선택)"으로 적은 칸은 쉬운 보기에서 **[더 많은 설정 ▾]** 안에 있고, 비우면 기본값을 씁니다.
+분석 종류 카드 13개 가운데 뒤쪽 8개(다시 오는 비율(리텐션)·고객 등급 나누기(RFM)·큰 몫을 차지하는 항목(파레토)·두 분류가 관련 있는지(카이제곱 검정)·두 그룹의 차이가 진짜인지(A/B 검정)·함께 나오는 항목(장바구니 분석)·평균이 바뀐 이유·되풀이되는 흐름과 튀는 날(시계열 분해))입니다. 카드 13개의 이름과 한 줄 설명은 [분석 탭](functions/analysis_tab.md#분석-종류-카드-13개)에 있습니다. 결과는 그래프와 표로 나오고, 빈 값 때문에 뺀 행 수와 주의할 점(배정 비율이 1:1로 보기 어려울 때, 값이 1개뿐인 그룹을 뺐을 때, RFM 점수를 5단계로 나눌 수 없을 때 등)은 결과 위 안내에 보입니다. 이 8가지는 아직 **[대시보드에 추가]**를 쓸 수 없습니다(단추가 꺼짐). 표에 "(선택)"으로 적은 칸은 쉬운 보기에서 **[더 많은 설정 ▾]** 안에 있고, 비우면 기본값을 씁니다.
 
 | 분석 | 넣는 것 | 결과 | 한계 |
 |---|---|---|---|
 | 리텐션 | 사용자, 날짜 컬럼, 단위(일·주·월), 경과 칸 수(선택) | 코호트별 유지율 칸 그림과 평균 유지율 선 | 코호트가 상한을 넘으면 단위를 키우거나 조건으로 좁히라고 안내합니다. 관찰할 수 없는 칸·진행 중 칸은 빈 칸입니다. |
 | RFM | 사용자, 날짜, 금액, 기준일(선택), 거래 키(선택) | 5단계 점수로 나눈 8개 세그먼트의 사람 수·평균 R/F/M·매출 비중, 분위 경계 | 기준일을 비우면 자료의 마지막 날입니다. 거래 키를 고르면 빈도는 고유 거래 수, 안 고르면 행 수입니다.  같은 값이 몰려 5단계로 나눌 수 없는 축(예: 대부분 한 번만 산 빈도)은 있는 값만큼만 나누고 결과 위에 알립니다. |
 | 파레토·ABC | 항목, 값(합계·행 수), A·B 경계(%) | 값이 큰 순서의 누적 비중과 A·B·C 등급 | 0 이하 값은 빼고 항목 수 상한이 있습니다. 경계를 넘는 항목은 앞 등급입니다. |
-| 관계 검정 | 행·열 컬럼(범주 둘) | 교차표(관측·기대), 카이제곱·p값·Cramér's V, 표준화 잔차 | 값 종류가 많은 컬럼은 거절합니다. 기대 빈도 5 미만 칸이 많으면 믿기 어렵다고 알립니다. |
+| 카이제곱 검정 | 행·열 컬럼(범주 둘) | 교차표(관측·기대), 카이제곱·p값·Cramér's V, 표준화 잔차 | 값 종류가 많은 컬럼은 거절합니다. 기대 빈도 5 미만 칸이 많으면 믿기 어렵다고 알립니다. |
 | A/B 검정 | 그룹 컬럼, 지표(비율·평균), 값 컬럼, 대조군(꼭 고름), 사용자 컬럼(한 사람이 여러 행이면 꼭 고름), 신뢰 수준(%, 선택. 비우면 설정의 신뢰수준) | 대조군 대비 차이·신뢰구간·Lift·p값 | 비율 값은 0·1이어야 합니다. 세 그룹 이상이면 평균은 ANOVA, 비율은 카이제곱 동질성이고 쌍 p값은 Bonferroni 보정입니다. 표본이 적으면 근사 검정이라고 알립니다.  사용자를 고르면 사람마다 먼저 모아(비율은 한 번이라도 1이면 1, 평균은 합계) 검정합니다. 고르지 않으면 한 행을 한 사람으로 보아 한 사람이 여러 행인 자료에서는 p값이 실제보다 작게 나옵니다. 두 그룹의 크기가 1:1로 보기 어려우면 결과 위에 알립니다. |
-| 연관 항목(장바구니) | 거래 키, 항목, 최소 지지도(%, 선택), 상위 쌍 수(선택) | 함께 산 쌍의 지지도·신뢰도·향상도 | 항목·쌍 수와 쌍 행 수에 상한이 있어 넘으면 많이 산 쪽만 보거나 좁히라고 안내합니다. |
-| 변화 요인 | 날짜, 기준·비교 기간, 그룹, 값(0·1이면 비율) | 평균 변화를 구성 변화·그룹 안 변화·상호작용으로 나눈 폭포 그림과 그룹별 표 | 두 기간은 겹치면 안 됩니다. 그룹이 많으면 상위 30개 밖은 "기타"로 묶고, 한 기간에만 있는 그룹의 효과는 구성 변화입니다. |
+| 장바구니 분석 | 거래 키, 항목, 최소 지지도(%, 선택), 상위 쌍 수(선택) | 함께 산 쌍의 지지도·신뢰도·향상도 | 항목·쌍 수와 쌍 행 수에 상한이 있어 넘으면 많이 산 쪽만 보거나 좁히라고 안내합니다. |
+| 평균이 바뀐 이유 | 날짜, 기준·비교 기간, 그룹, 값(0·1이면 비율) | 평균 변화를 구성 변화·그룹 안 변화·상호작용으로 나눈 폭포 그림과 그룹별 표 | 두 기간은 겹치면 안 됩니다. 그룹이 많으면 상위 30개 밖은 "기타"로 묶고, 한 기간에만 있는 그룹의 효과는 구성 변화입니다. |
 | 시계열 분해 | 날짜, 단위, 값·집계, 이동평균 창(선택), 이상 판정 배수(선택), 흩어짐 기준 분위(선택) | 추세·계절·나머지와 이상 시점 표시 | 계절은 일 = 요일, 월 = 월이고 주는 없습니다. 평균 같은 집계는 빈 기간을 건너뛰어 이어 붙이므로 기간 간격이 고르지 않을 수 있습니다. 나머지가 거의 같으면 이상 시점을 판정하지 않습니다.  추세와 계절은 튄 값에 끌려가지 않게 중앙값으로 구합니다. 이상 시점은 나머지가 "배수 × 흩어짐"보다 멀 때이고, 흩어짐은 나머지 크기의 기준 분위(기본 0.9)로 잽니다. 분위를 0.5로 적으면 MAD 기준이라 기준선이 낮아져 표시가 늘어납니다. |
 
-- **전체로 구하기**: 리텐션·RFM·파레토·장바구니·변화 요인·시계열 분해는 건수·합계가 깎이지 않도록 늘 테이블 전체로 구합니다. 관계 검정·A/B 검정은 다른 분석처럼 표본으로 구하고 **[표본 말고 전체 데이터로 다시 구하기]**로 다시 구합니다.
+- **전체로 구하기**: 리텐션·RFM·파레토·장바구니 분석·평균이 바뀐 이유·시계열 분해는 건수·합계가 깎이지 않도록 늘 테이블 전체로 구합니다. 카이제곱 검정·A/B 검정은 다른 분석처럼 표본으로 구하고 **[표본 말고 전체 데이터로 다시 구하기]**로 다시 구합니다.
 - **읽는 양**: 원격 DB가 직접 계산하면 이 테이블을 여러 번 읽으므로, 처리 용량 확인 창에 "표를 N번 읽어요"가 함께 보입니다.
 
 ## 표 머리글을 눌러 정렬하기
@@ -71,7 +71,7 @@
 표 머리글을 누를 때마다 오름(↑) → 내림(↓) → 원래 순서로 바뀝니다(한 컬럼 기준). 빈 값은 방향과 상관없이 맨 뒤입니다.
 
 - **데이터 탭**: 정렬은 머리글의 **↕ 단추**로 합니다(컬럼 이름을 누르면 지금처럼 ③ 컬럼 정리가 열립니다). 테이블 전체(전처리 단계가 있으면 적용한 뒤)를 그 컬럼으로 다시 조회해 앞 20행을 보여 주고, BigQuery처럼 읽는 양을 셀 수 있는 연결은 처리 용량 확인 창이 뜹니다. [미리보기]를 누르면 정렬이 풀립니다. 분석 탭 맨 위 데이터 표는 단추 없이 이 정렬을 따릅니다.
-- **컬럼 요약·분석 표·퍼널 표**: 이미 받은 결과만 화면에서 정렬하므로 다시 조회하지 않습니다. 컬럼 요약에는 **빈 값 비율**·**고유값 수** 칸이 따로 있어 숫자로 정렬합니다(표본 기준). 상한 때문에 잘린 표(그룹 비교·시계열·값 빈도)는 받은 행만 정렬하고 표 아래에 안내가 나옵니다. 값 빈도의 "(빈 값)"·"그 밖의 값" 줄은 맨 끝에 고정입니다. '보일 행 수'·범위 슬라이더는 결과 전체를 정렬한 뒤 자릅니다.
+- **컬럼 요약·분석 표·퍼널 표**: 이미 받은 결과만 화면에서 정렬하므로 다시 조회하지 않습니다. 컬럼 요약에는 **빈 값 비율**·**고유값 수** 칸이 따로 있어 숫자로 정렬합니다(표본 기준). 상한 때문에 잘린 표(묶음끼리 비교·날짜에 따른 변화·값 빈도)는 받은 행만 정렬하고 표 아래에 안내가 나옵니다. 값 빈도의 "(빈 값)"·"그 밖의 값" 줄은 맨 끝에 고정입니다. '보일 행 수'·범위 슬라이더는 결과 전체를 정렬한 뒤 자릅니다.
 
 ## 전처리에 태그 붙이기
 
